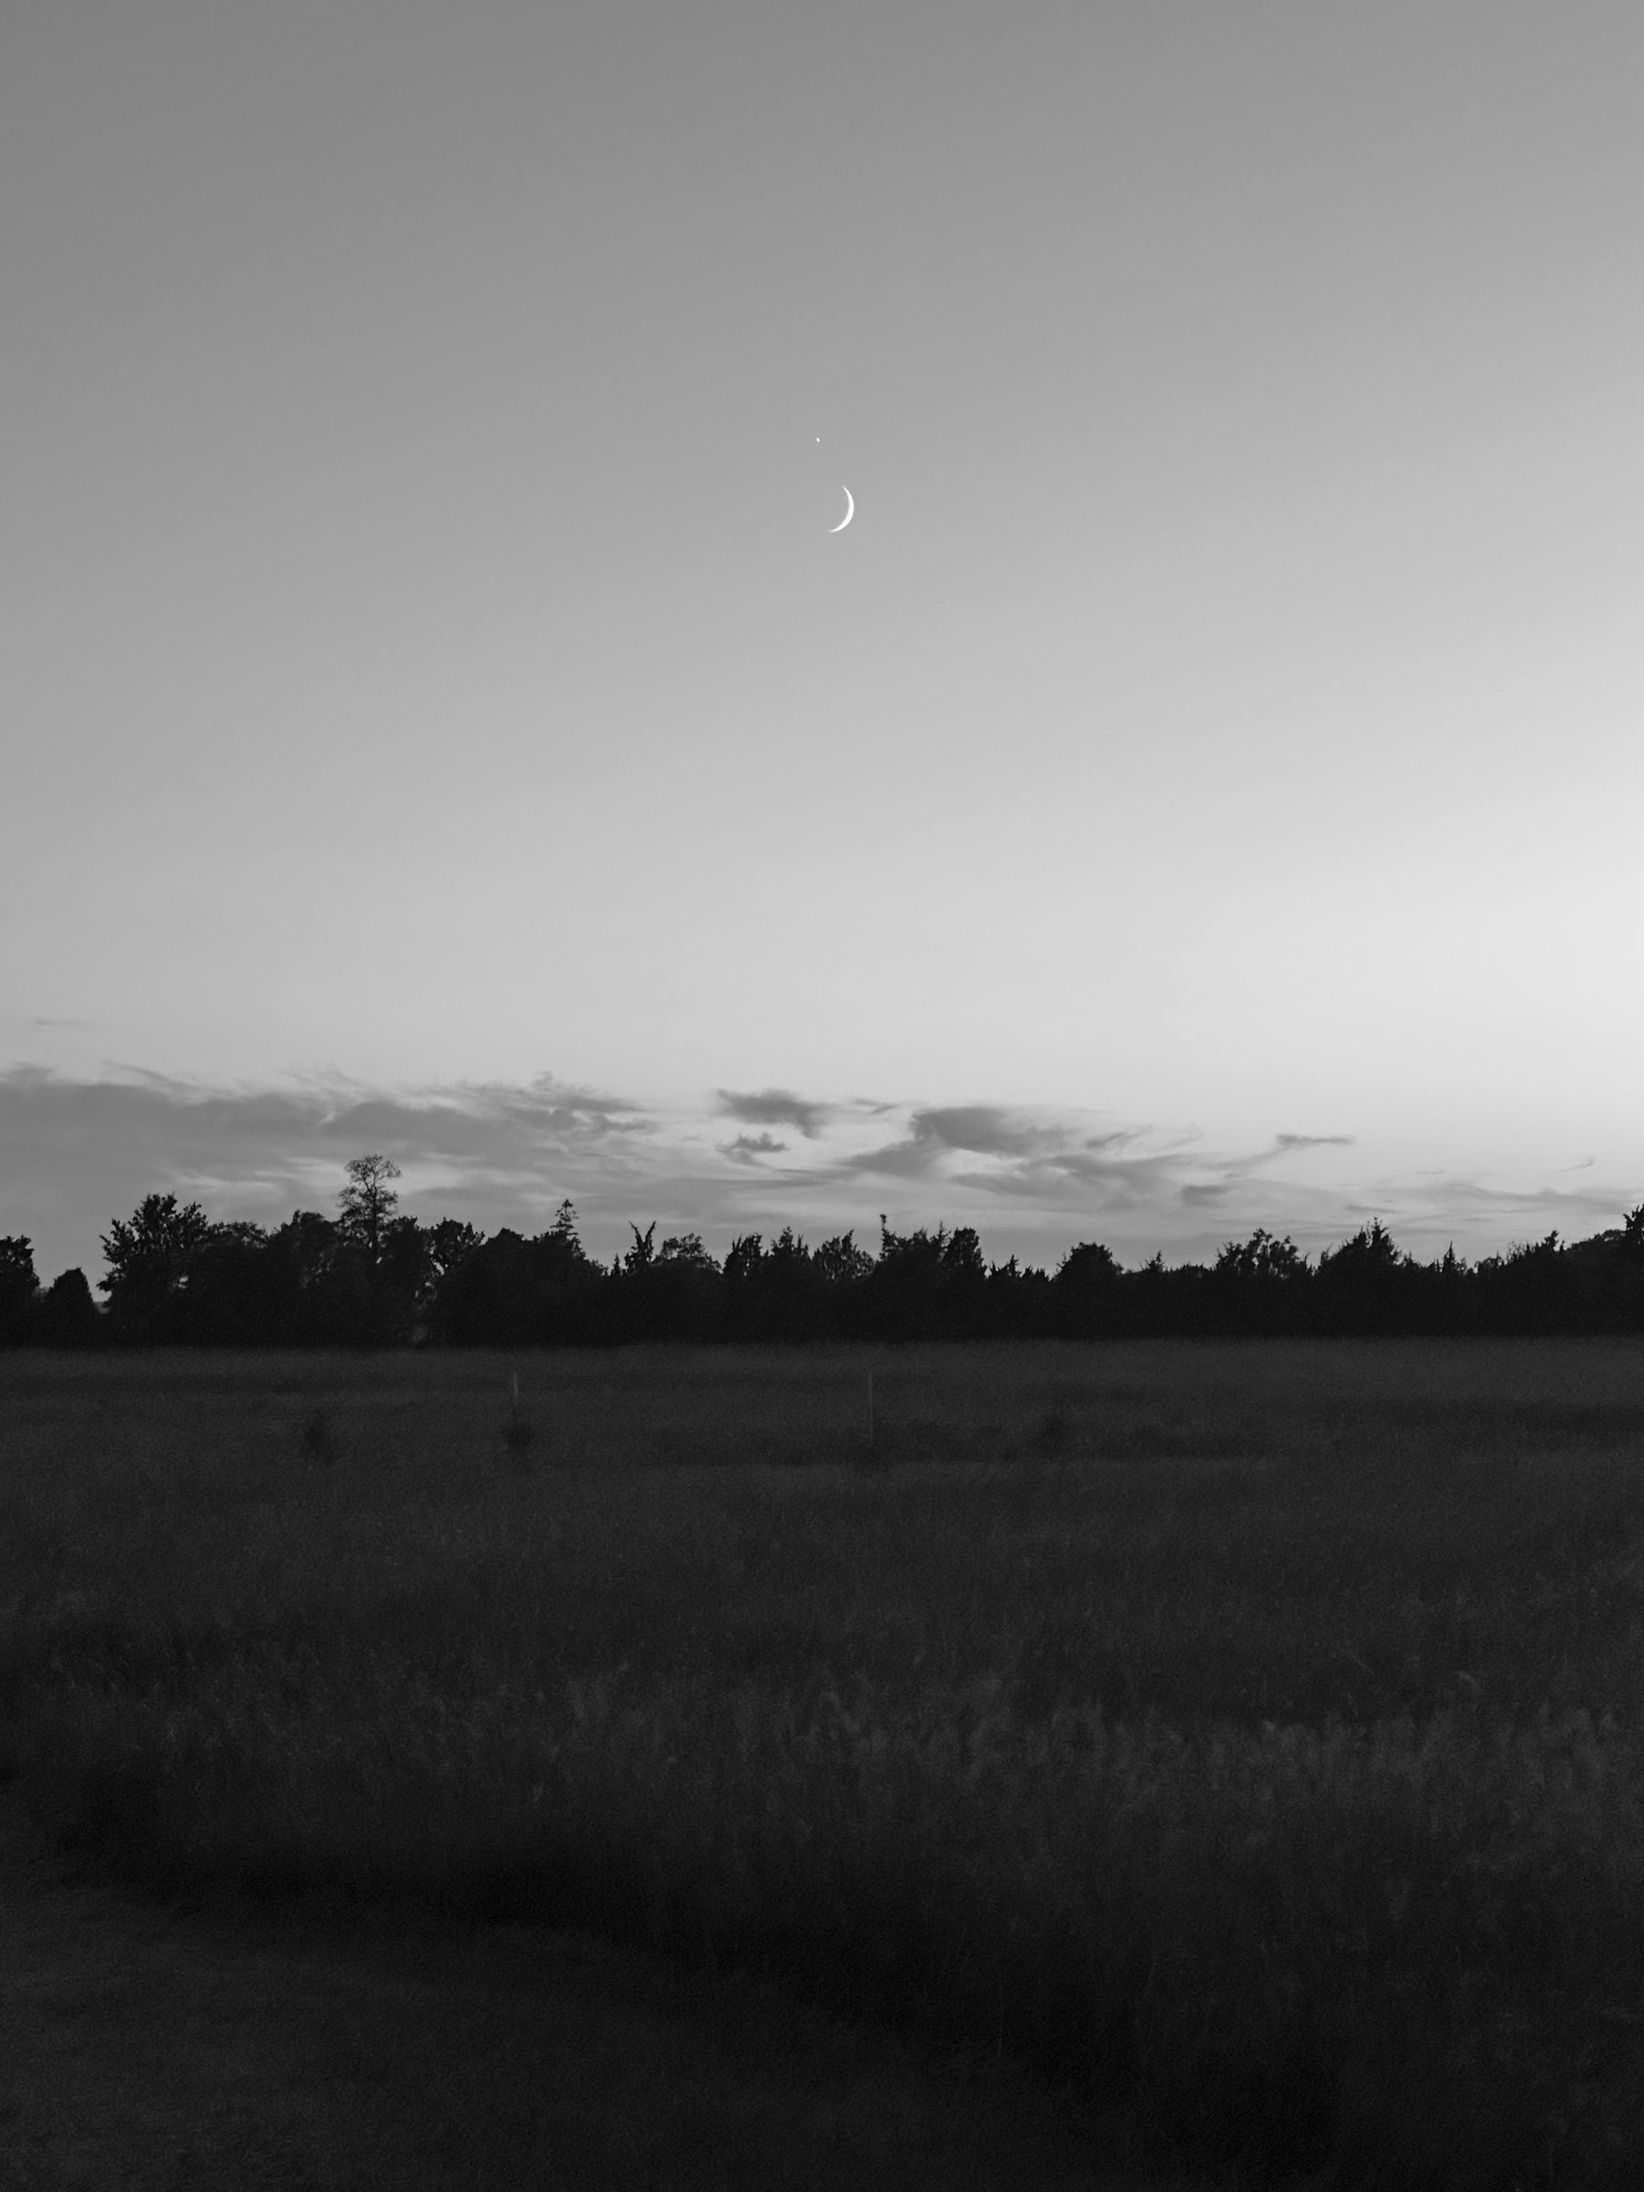
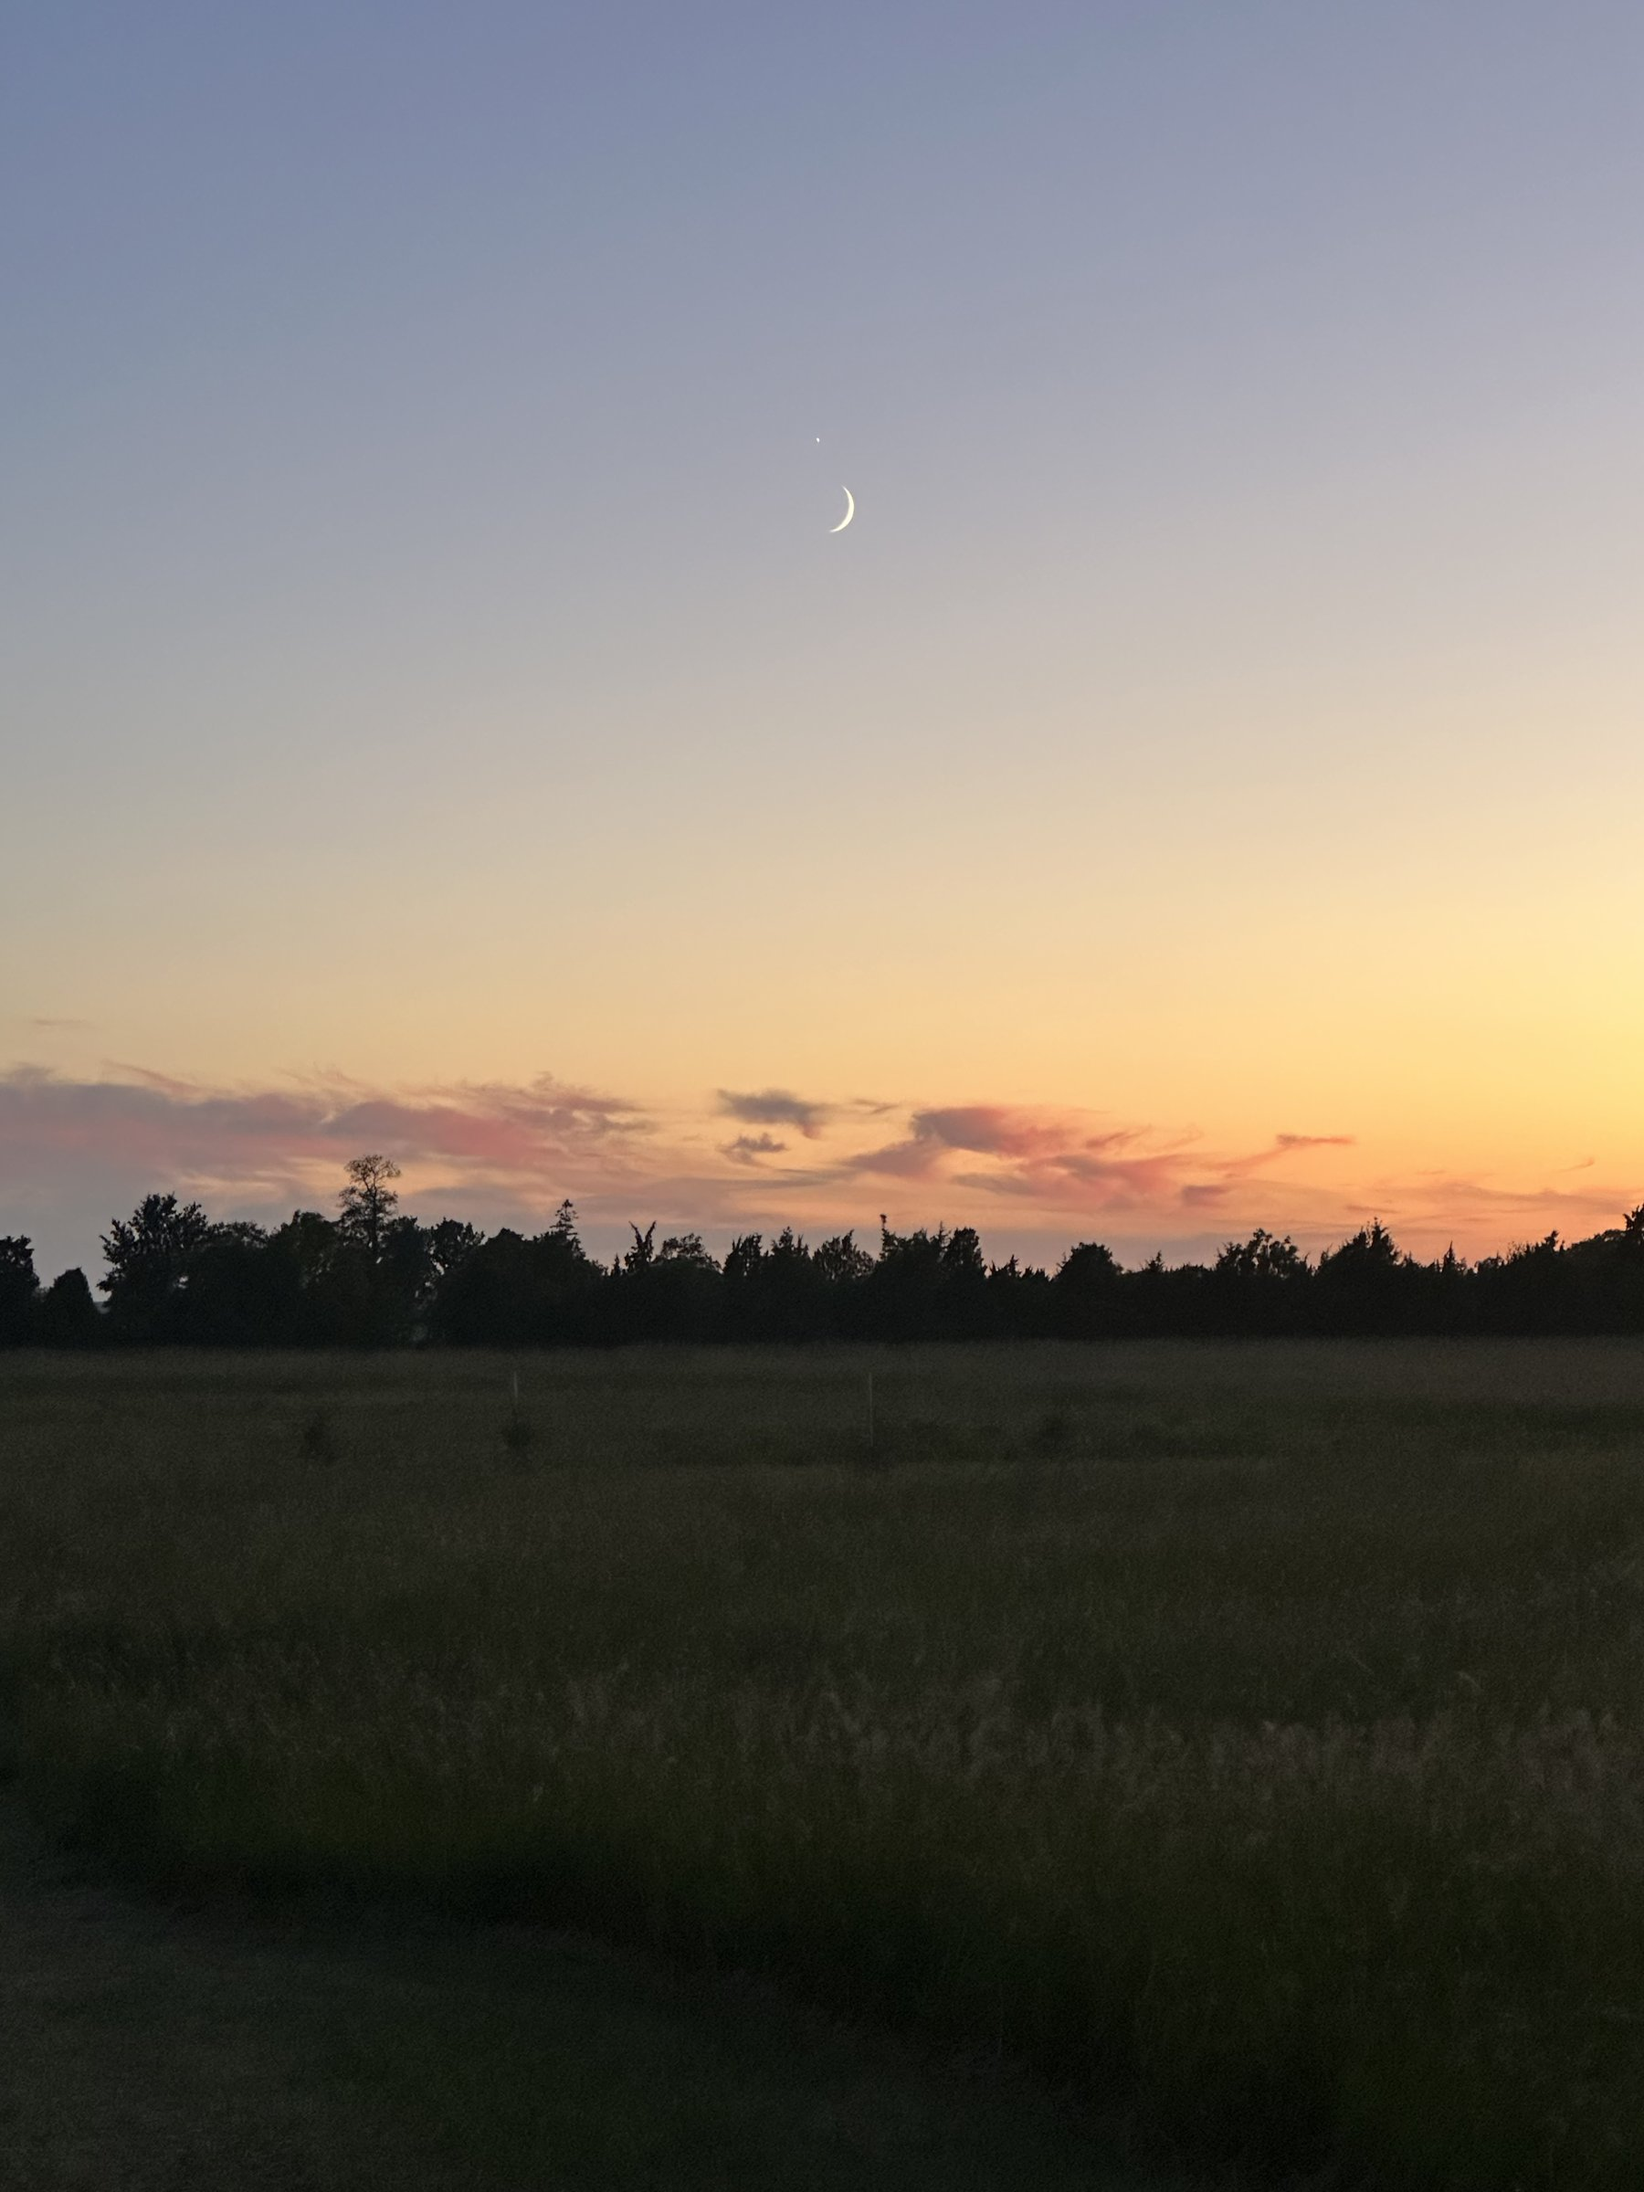
Restore photo color, lock scroll on the landing screen
Requested: put color back in the two landing photos (previously
desaturated to match the grayscale editorial direction), and stop the
landing screen from being scrollable - it's a single fixed hero, there's
nothing below the fold to scroll to.

- Re-converted both JPEGs from the source HEICs without the grayscale
  step (still EXIF-orientation-corrected and resized to 2400px max).
- Added .eb-no-scroll, toggled on both <html> and <body> by setScreen()
  whenever the landing screen is active (and set directly in the initial
  markup, since the landing screen is also the page's default state on
  first load, before any setScreen() call ever runs).

Changed region(s): [[0.0, 0.3125, 1.0, 0.5938], [0.0, 0.0, 0.7156, 0.1562]]

diff --git a/src/main/resources/static/index.html b/src/main/resources/static/index.html
@@ -1,5 +1,5 @@
 <!DOCTYPE html>
-<html lang="en">
+<html lang="en" class="eb-no-scroll">
 <head>
 <meta charset="utf-8">
 <meta name="viewport" content="width=device-width, initial-scale=1">
@@ -8,7 +8,7 @@
 <link href="https://fonts.googleapis.com/css2?family=Inter:wght@400;500;600;700;800&family=JetBrains+Mono:wght@400;500;700&family=Fraunces:opsz,wght@9..144,300..600&display=swap" rel="stylesheet">
 <link rel="stylesheet" href="assets/easy-break.css">
 </head>
-<body>
+<body class="eb-no-scroll">
 
 <div class="eb-shell">
 
@@ -587,6 +587,8 @@
     state.screen = screen;
     document.querySelectorAll('.eb-screen').forEach(el => el.classList.remove('is-active'));
     document.getElementById('screen-' + screen).classList.add('is-active');
+    document.documentElement.classList.toggle('eb-no-scroll', screen === 'landing');
+    document.body.classList.toggle('eb-no-scroll', screen === 'landing');
     document.getElementById('topbar-landing').classList.toggle('eb-hidden', screen !== 'landing');
     document.getElementById('topbar-app').classList.toggle('eb-hidden', screen === 'landing');
     window.scrollTo({ top: 0, behavior: 'instant' in window ? 'instant' : 'auto' });

diff --git a/src/main/resources/static/assets/easy-break.css b/src/main/resources/static/assets/easy-break.css
@@ -106,6 +106,13 @@ body {
 
 .mono { font-family: var(--font-mono); font-variant-numeric: tabular-nums; }
 
+/* Toggled on <body> by setScreen() (index.html) whenever the landing screen
+   is active - it's a single fixed hero, not a scrolling page, so there's
+   nothing to scroll to. Set on both html and body: overflow:hidden on just
+   body doesn't reliably stop the *page* from scrolling in every browser,
+   since html is the actual scrolling box. */
+html.eb-no-scroll, body.eb-no-scroll { overflow: hidden; }
+
 /* Loosened from the original's tight -0.01em: editorial headings build
    hierarchy through generous spacing and scale, not dense tracking. Serif
    headings against the sans body text is the other half of that editorial
